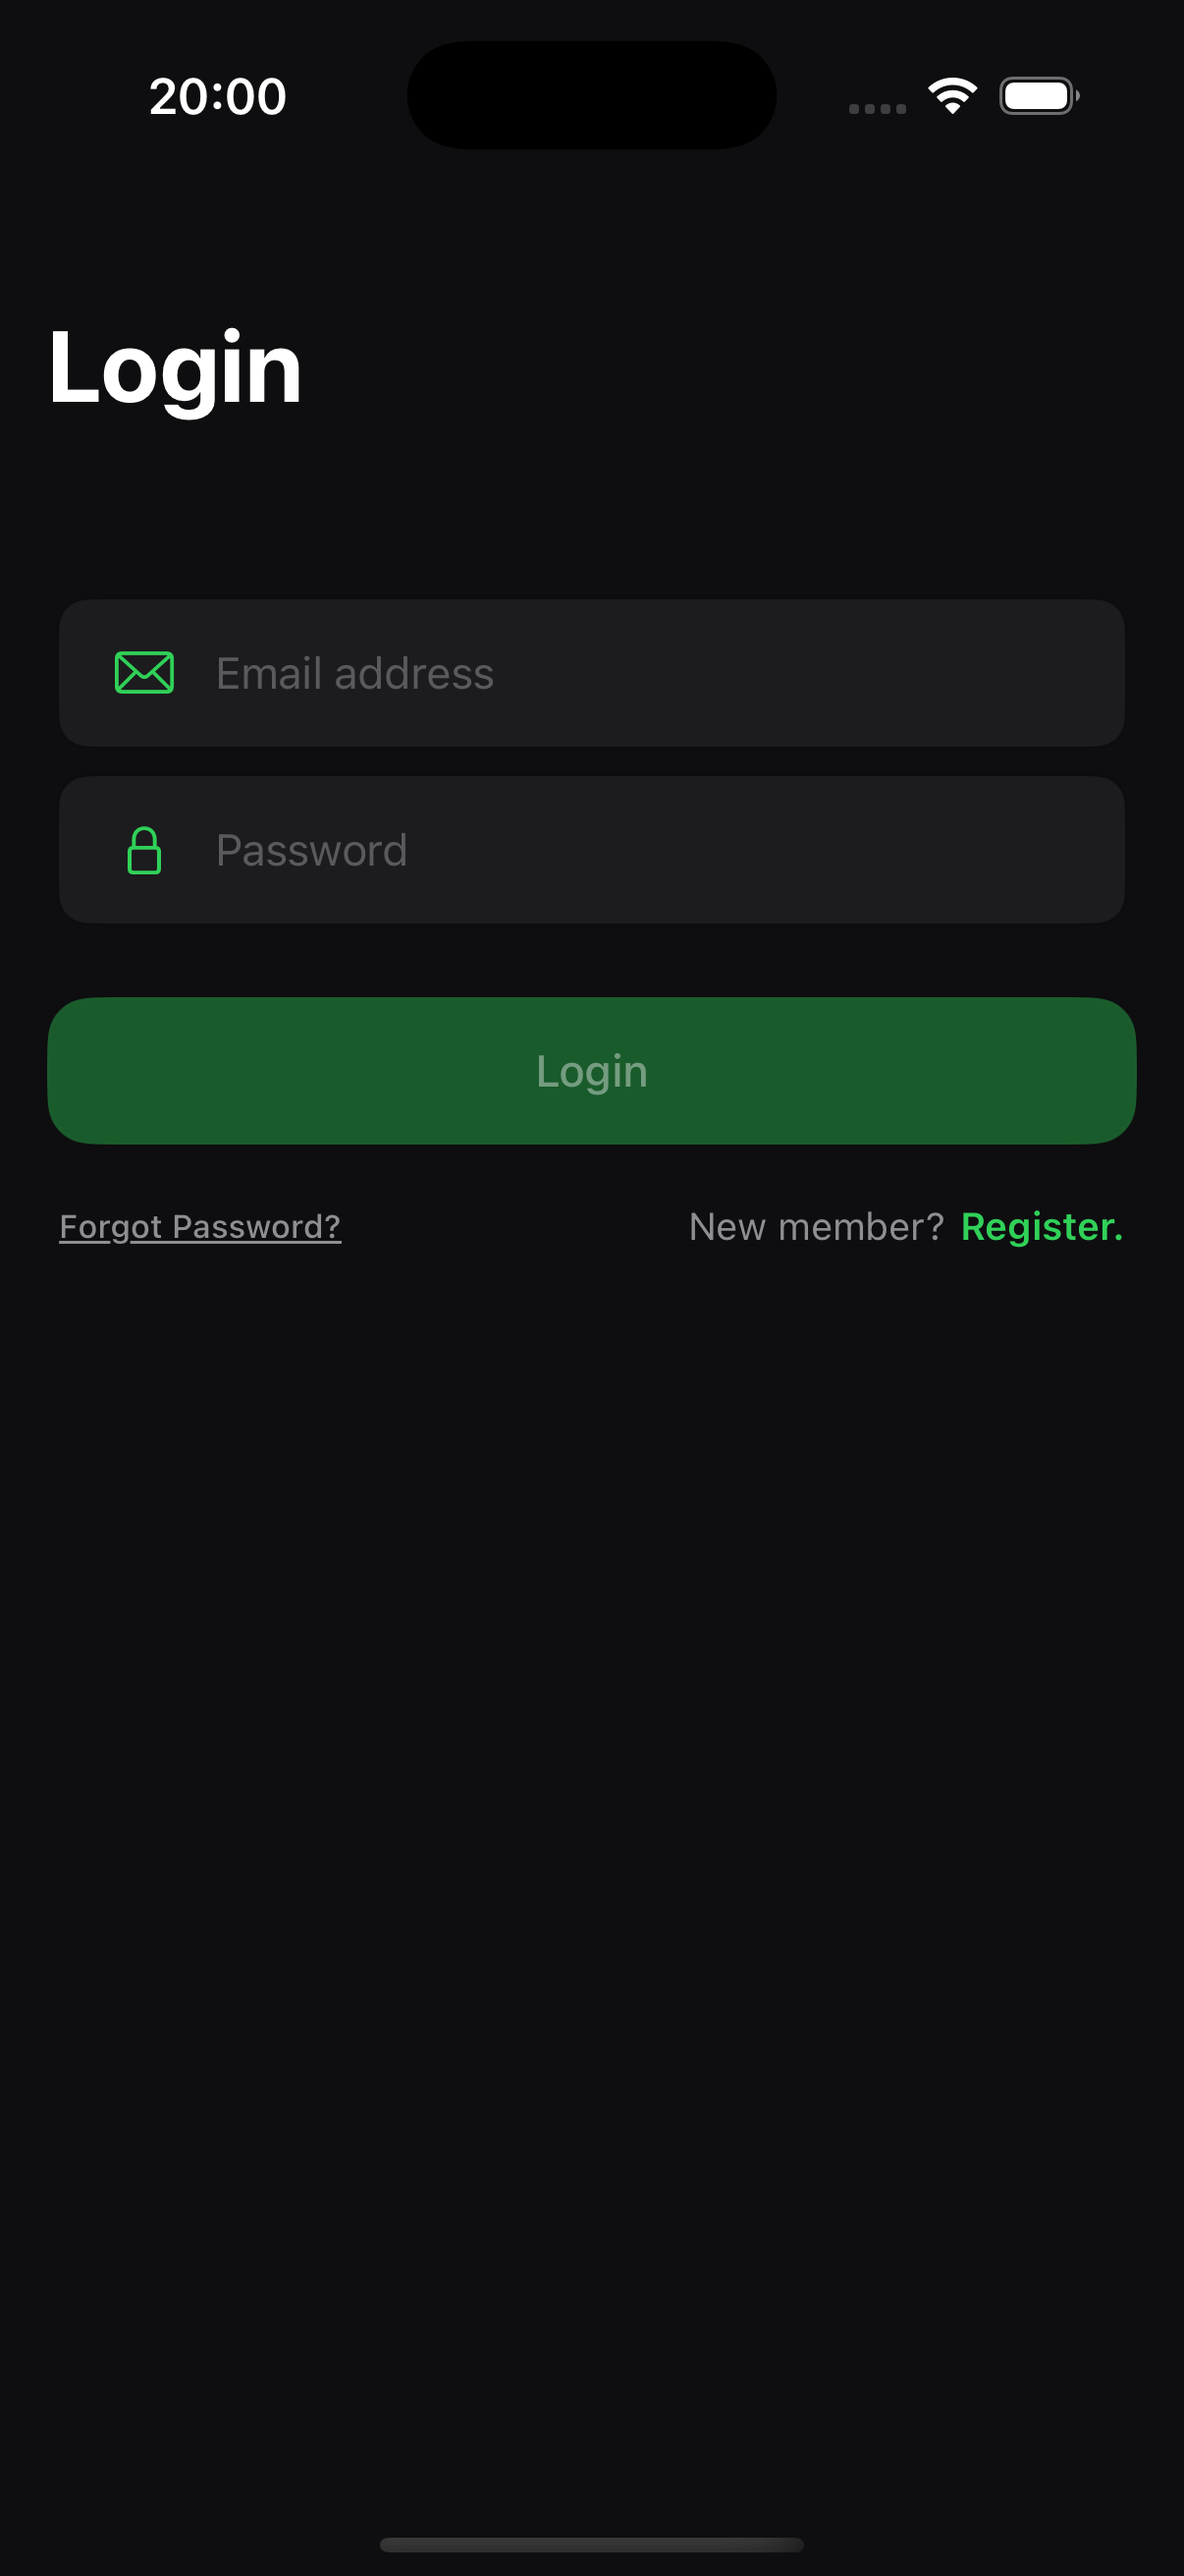
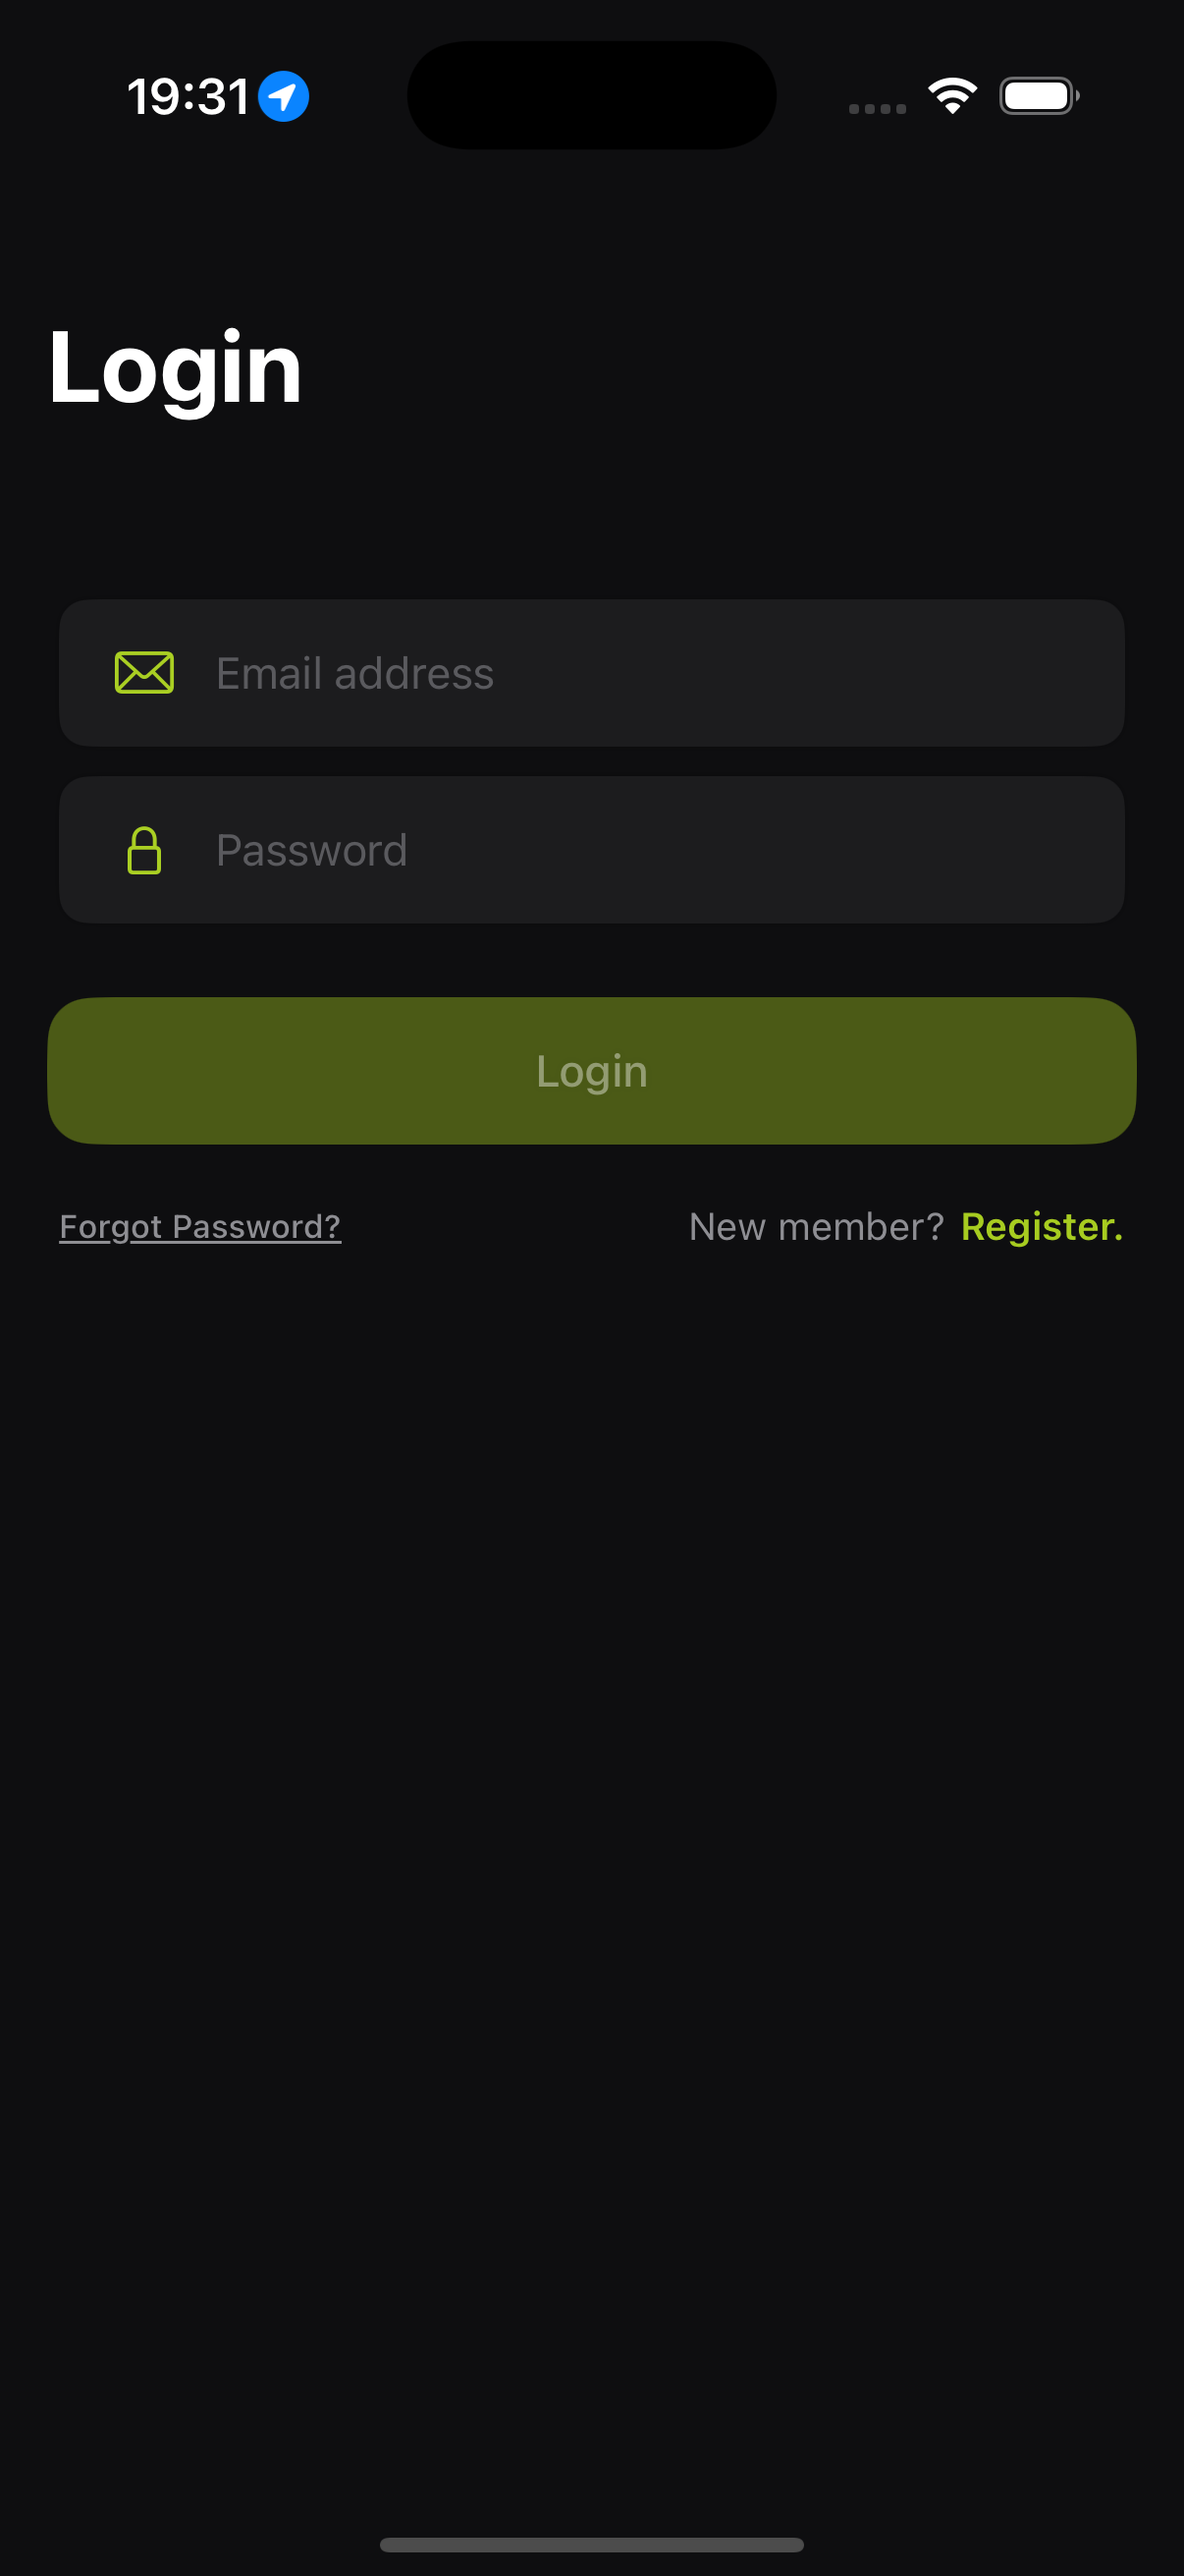
Updated README and app screenshots.

diff --git a/EcoFill/Features/Map/Views/MapItemView.swift b/EcoFill/Features/Map/Views/MapItemView.swift
@@ -7,16 +7,16 @@ struct MapItemView: View {
   private let transportTypes = MKDirectionsTransportType.allCases
   @EnvironmentObject var mapViewModel: MapViewModel
   
-  // MARK:  - body
+  // MARK: - body
   
   var body: some View {
     ZStack {
       Color.appBackground.ignoresSafeArea()
       VStack(alignment: .leading, spacing:17) {
         Spacer()
-        addressView
-        scheduleView
-        paymentView
+        cell(image: .marker, title: "street_label", data: station.street)
+        cell(image: .clock, title: "schedule_label", data: station.schedule)
+        cell(image: .money, title: "payment_label", data: station.paymentMethods)
         transportTypesView
         FuelStackView(for: station)
         routeButton
@@ -25,41 +25,17 @@ struct MapItemView: View {
     }
   }
   
-  // MARK:  - Auxilary UI Components
+  // MARK: - Auxilary UI Components
   
-  private var addressView: some View {
+  private func cell(
+    image: ImageResource,
+    title: LocalizedStringKey,
+    data: String
+  ) -> some View {
     HStack(spacing:8) {
-      Image(.marker)
-        .foregroundStyle(.green)
-      Text("street_label")
-        .foregroundStyle(.gray)
-      Text(station.street)
-        .lineLimit(2)
-        .multilineTextAlignment(.leading)
-    }
-    .font(.footnote)
-    .fontWeight(.medium)
-  }
-  
-  private var scheduleView: some View {
-    HStack(spacing:8) {
-      Image(.clock)
-        .foregroundStyle(.green)
-      Text("schedule_label")
-        .foregroundStyle(.gray)
-      Text(station.schedule)
-    }
-    .font(.footnote)
-    .fontWeight(.medium)
-  }
-  
-  private var paymentView: some View {
-    HStack(spacing:8) {
-      Image(.money)
-        .foregroundStyle(.green)
-      Text("payment_label")
-        .foregroundStyle(.gray)
-      Text("payment_methods")
+      Image(image).foregroundStyle(.accent)
+      Text(title).foregroundStyle(.gray)
+      Text(data)
     }
     .font(.footnote)
     .fontWeight(.medium)
@@ -72,7 +48,7 @@ struct MapItemView: View {
       .foregroundStyle(.white)
       .padding(10)
       .background(
-        type == mapViewModel.selectedTransport ? .green : .black
+        type == mapViewModel.selectedTransport ? .accent : .black
       )
       .clipShape(.capsule)
       .animation(.spring, value: mapViewModel.selectedTransport)
@@ -117,7 +93,7 @@ struct MapItemView: View {
           title: "show_route",
           iconName: "arrow.trianglehead.branch",
           textColor: .black,
-          pouring: .green
+          pouring: .accent
         )
       }
     }

diff --git a/EcoFill/Features/Map/Views/StationListCell.swift b/EcoFill/Features/Map/Views/StationListCell.swift
@@ -15,9 +15,9 @@ struct StationListCell: View {
   
   var body: some View {
     VStack(alignment: .leading, spacing:15) {
-      addressView
-      scheduleView
-      paymentView
+      cell(image: .marker, title: "street_label", data: station.street)
+      cell(image: .clock, title: "schedule_label", data: station.schedule)
+      cell(image: .money, title: "payment_label", data: station.paymentMethods)
       transportationOptionsView
       routeButton
       // to prevent the entire cell from responding to a click.
@@ -27,39 +27,15 @@ struct StationListCell: View {
   
   // MARK: - Auxilary UI Components
   
-  private var addressView: some View {
+  private func cell(
+    image: ImageResource,
+    title: LocalizedStringKey,
+    data: String
+  ) -> some View {
     HStack(spacing:8) {
-      Image(.marker)
-        .foregroundStyle(.green)
-      Text("street_label")
-        .foregroundStyle(.gray)
-      Text(station.street)
-        .lineLimit(2)
-        .multilineTextAlignment(.leading)
-    }
-    .font(.footnote)
-    .fontWeight(.medium)
-  }
-  
-  private var scheduleView: some View {
-    HStack(spacing:8) {
-      Image(.clock)
-        .foregroundStyle(.green)
-      Text("schedule_label")
-        .foregroundStyle(.gray)
-      Text(station.schedule)
-    }
-    .font(.footnote)
-    .fontWeight(.medium)
-  }
-  
-  private var paymentView: some View {
-    HStack(spacing:8) {
-      Image(.money)
-        .foregroundStyle(.green)
-      Text("payment_label")
-        .foregroundStyle(.gray)
-      Text("payment_methods")
+      Image(image).foregroundStyle(.accent)
+      Text(title).foregroundStyle(.gray)
+      Text(data)
     }
     .font(.footnote)
     .fontWeight(.medium)
@@ -72,7 +48,7 @@ struct StationListCell: View {
       .foregroundStyle(.white)
       .padding(10)
       .background(
-        type == mapViewModel.selectedTransport ? .green : .black
+        type == mapViewModel.selectedTransport ? .accent : .black
       )
       .clipShape(.capsule)
       .animation(.spring, value: mapViewModel.selectedTransport)
@@ -110,7 +86,7 @@ struct StationListCell: View {
           title: "show_route",
           iconName: "arrow.trianglehead.branch",
           textColor: .white,
-          pouring: .green,
+          pouring: .accent,
           verticalSpace: 12
         )
       }

diff --git a/EcoFill/Features/Settings/Views/UpdateEmailScreen.swift b/EcoFill/Features/Settings/Views/UpdateEmailScreen.swift
@@ -70,7 +70,7 @@ struct UpdateEmailScreen: View {
       .submitLabel(.done)
       .onSubmit { fieldContent = nil }
     }
-    .customListStyle(scrollDisabled: true, height: 195, shadow: 1)
+    .customListStyle(rowHeight: 50, scrollDisabled: true, height: 195, shadow: 1)
   }
   
   private var emailStatusView: some View {
@@ -81,7 +81,7 @@ struct UpdateEmailScreen: View {
         Text(authViewModel.emailStatus.message)
           .fontWeight(.bold)
           .foregroundStyle(
-            authViewModel.emailStatus == .verified ? .green : .red
+            authViewModel.emailStatus == .verified ? .accent : .red
           )
       }
       .font(.footnote)
@@ -102,9 +102,10 @@ struct UpdateEmailScreen: View {
       ButtonLabel(
         title: "update_email_button",
         textColor: .white,
-        pouring: .green
+        pouring: .accent
       )
     }
+    .padding(.horizontal)
     .disabled(!isValidForm)
     .opacity(!isValidForm ? 0.5 : 1)
     .alert(item: $authViewModel.alertItem) { alert in

diff --git a/EcoFill/Components/Inputs/SecuredTextField.swift b/EcoFill/Components/Inputs/SecuredTextField.swift
@@ -38,7 +38,7 @@ struct SecuredTextField: View {
         HStack(spacing: 15) {
           Image(systemName: iconName)
             .frame(width: 18, height: 18)
-            .foregroundStyle(.green)
+            .foregroundStyle(.accent)
           TextField(hint, text: $inputData)
             .focused($fieldStatus, equals: .notSecured)
             .font(.subheadline)
@@ -48,7 +48,7 @@ struct SecuredTextField: View {
         HStack(spacing: 15) {
           Image(systemName: iconName)
             .frame(width: 18, height: 18)
-            .foregroundStyle(.green)
+            .foregroundStyle(.accent)
           SecureField(hint, text: $inputData)
             .focused($fieldStatus, equals: .secured)
             .font(.subheadline)

diff --git a/EcoFill/Features/Support/SupportScreen.swift b/EcoFill/Features/Support/SupportScreen.swift
@@ -58,7 +58,7 @@ struct SupportScreen: View {
         Text("feedback_section_footer")
       }
     }
-    .customListStyle(scrollDisabled: true, height: 240)
+    .customListStyle(scrollDisabled: true, height: 230)
   }
   
   private var sendButton: some View {
@@ -67,9 +67,9 @@ struct SupportScreen: View {
       isShownAlert.toggle()
     } label: {
       ButtonLabel(
-        title: "Send",
+        title: "Submit",
         textColor: .white,
-        pouring: .green
+        pouring: .accent
       )
     }
     .padding(.horizontal)

diff --git a/EcoFill/Features/Auth/Views/ForgotPasswordScreen.swift b/EcoFill/Features/Auth/Views/ForgotPasswordScreen.swift
@@ -68,7 +68,7 @@ struct ForgotPasswordScreen: View {
       ButtonLabel(
         title: "send_reset_link_button",
         textColor: .white,
-        pouring: .green
+        pouring: .accent
       )
     }
     .padding(.horizontal)
@@ -87,7 +87,7 @@ struct ForgotPasswordScreen: View {
     VStack(spacing: 20) {
       Image(systemName: "checkmark.circle.fill")
         .font(.largeTitle)
-        .foregroundStyle(.green)
+        .foregroundStyle(.accent)
       Text("sent_link_title")
         .font(.title3)
         .fontWeight(.bold)

diff --git a/EcoFill/Features/Home/Views/QRCodeScreen.swift b/EcoFill/Features/Home/Views/QRCodeScreen.swift
@@ -51,7 +51,7 @@ struct QRCodeScreen: View {
                   .fontWeight(.semibold)
               } icon: {
                 Image(systemName: "checkmark.circle.fill")
-                  .foregroundStyle(.green)
+                  .foregroundStyle(.accent)
               }
               Text("bonuses_credited")
                 .font(.subheadline)
@@ -120,4 +120,5 @@ struct QRCodeScreen: View {
 
 #Preview {
   QRCodeScreen()
+    .environmentObject(AuthViewModel.previewMode)
 }

diff --git a/EcoFill/Features/Home/Views/QRScannerView.swift b/EcoFill/Features/Home/Views/QRScannerView.swift
@@ -99,7 +99,9 @@ struct QRScannerView: UIViewControllerRepresentable {
     previewLayer.videoGravity = .resizeAspectFill
     viewController.view.layer.addSublayer(previewLayer)
     
-    captureSession.startRunning()
+    DispatchQueue.global(qos: .userInitiated).async {
+      captureSession.startRunning()
+    }
     
     return viewController
   }

diff --git a/EcoFill/Components/Inputs/ExtendedTextField.swift b/EcoFill/Components/Inputs/ExtendedTextField.swift
@@ -22,7 +22,7 @@ struct ExtendedTextField: View {
     HStack(spacing: 15) {
       Image(systemName: iconName)
         .frame(width: 18, height: 18)
-        .foregroundStyle(.green)
+        .foregroundStyle(.accent)
       TextField(hint, text: $inputData, axis: .vertical)
         .font(.subheadline)
       HStack(spacing: 3) {

diff --git a/EcoFill/Components/Cells/ListCell.swift b/EcoFill/Components/Cells/ListCell.swift
@@ -23,7 +23,8 @@ struct ListCell: View {
         Text(item.title)
           .font(.subheadline)
           .fontWeight(.medium)
-          .foregroundStyle(.primary)
+          .tint(.primary)
+          //.foregroundStyle(.primary)
         if let subtitle = item.subtitle {
           Text(subtitle)
             .font(.caption2)

diff --git a/EcoFill/Models/Station.swift b/EcoFill/Models/Station.swift
@@ -8,8 +8,9 @@ struct Station: Decodable, Identifiable, Hashable {
   let gas: Double
   let latitude: Double
   let longitude: Double
-  let schedule: String
   let street: String
+  let schedule: String
+  let paymentMethods: String
   
   var coordinate: CLLocationCoordinate2D {
     CLLocationCoordinate2D(

diff --git a/EcoFill/Components/Cells/ListItem.swift b/EcoFill/Components/Cells/ListItem.swift
@@ -61,8 +61,8 @@ enum ListItem {
   
   var iconColor: Color {
     switch self {
-    case .qrCode: Color.green
-    case .support: Color.green
+    case .qrCode: Color.accent
+    case .support: Color.accent
     case .settings: Color.primary
     case .rateUs: Color.orange
     case .signOut: Color.red
